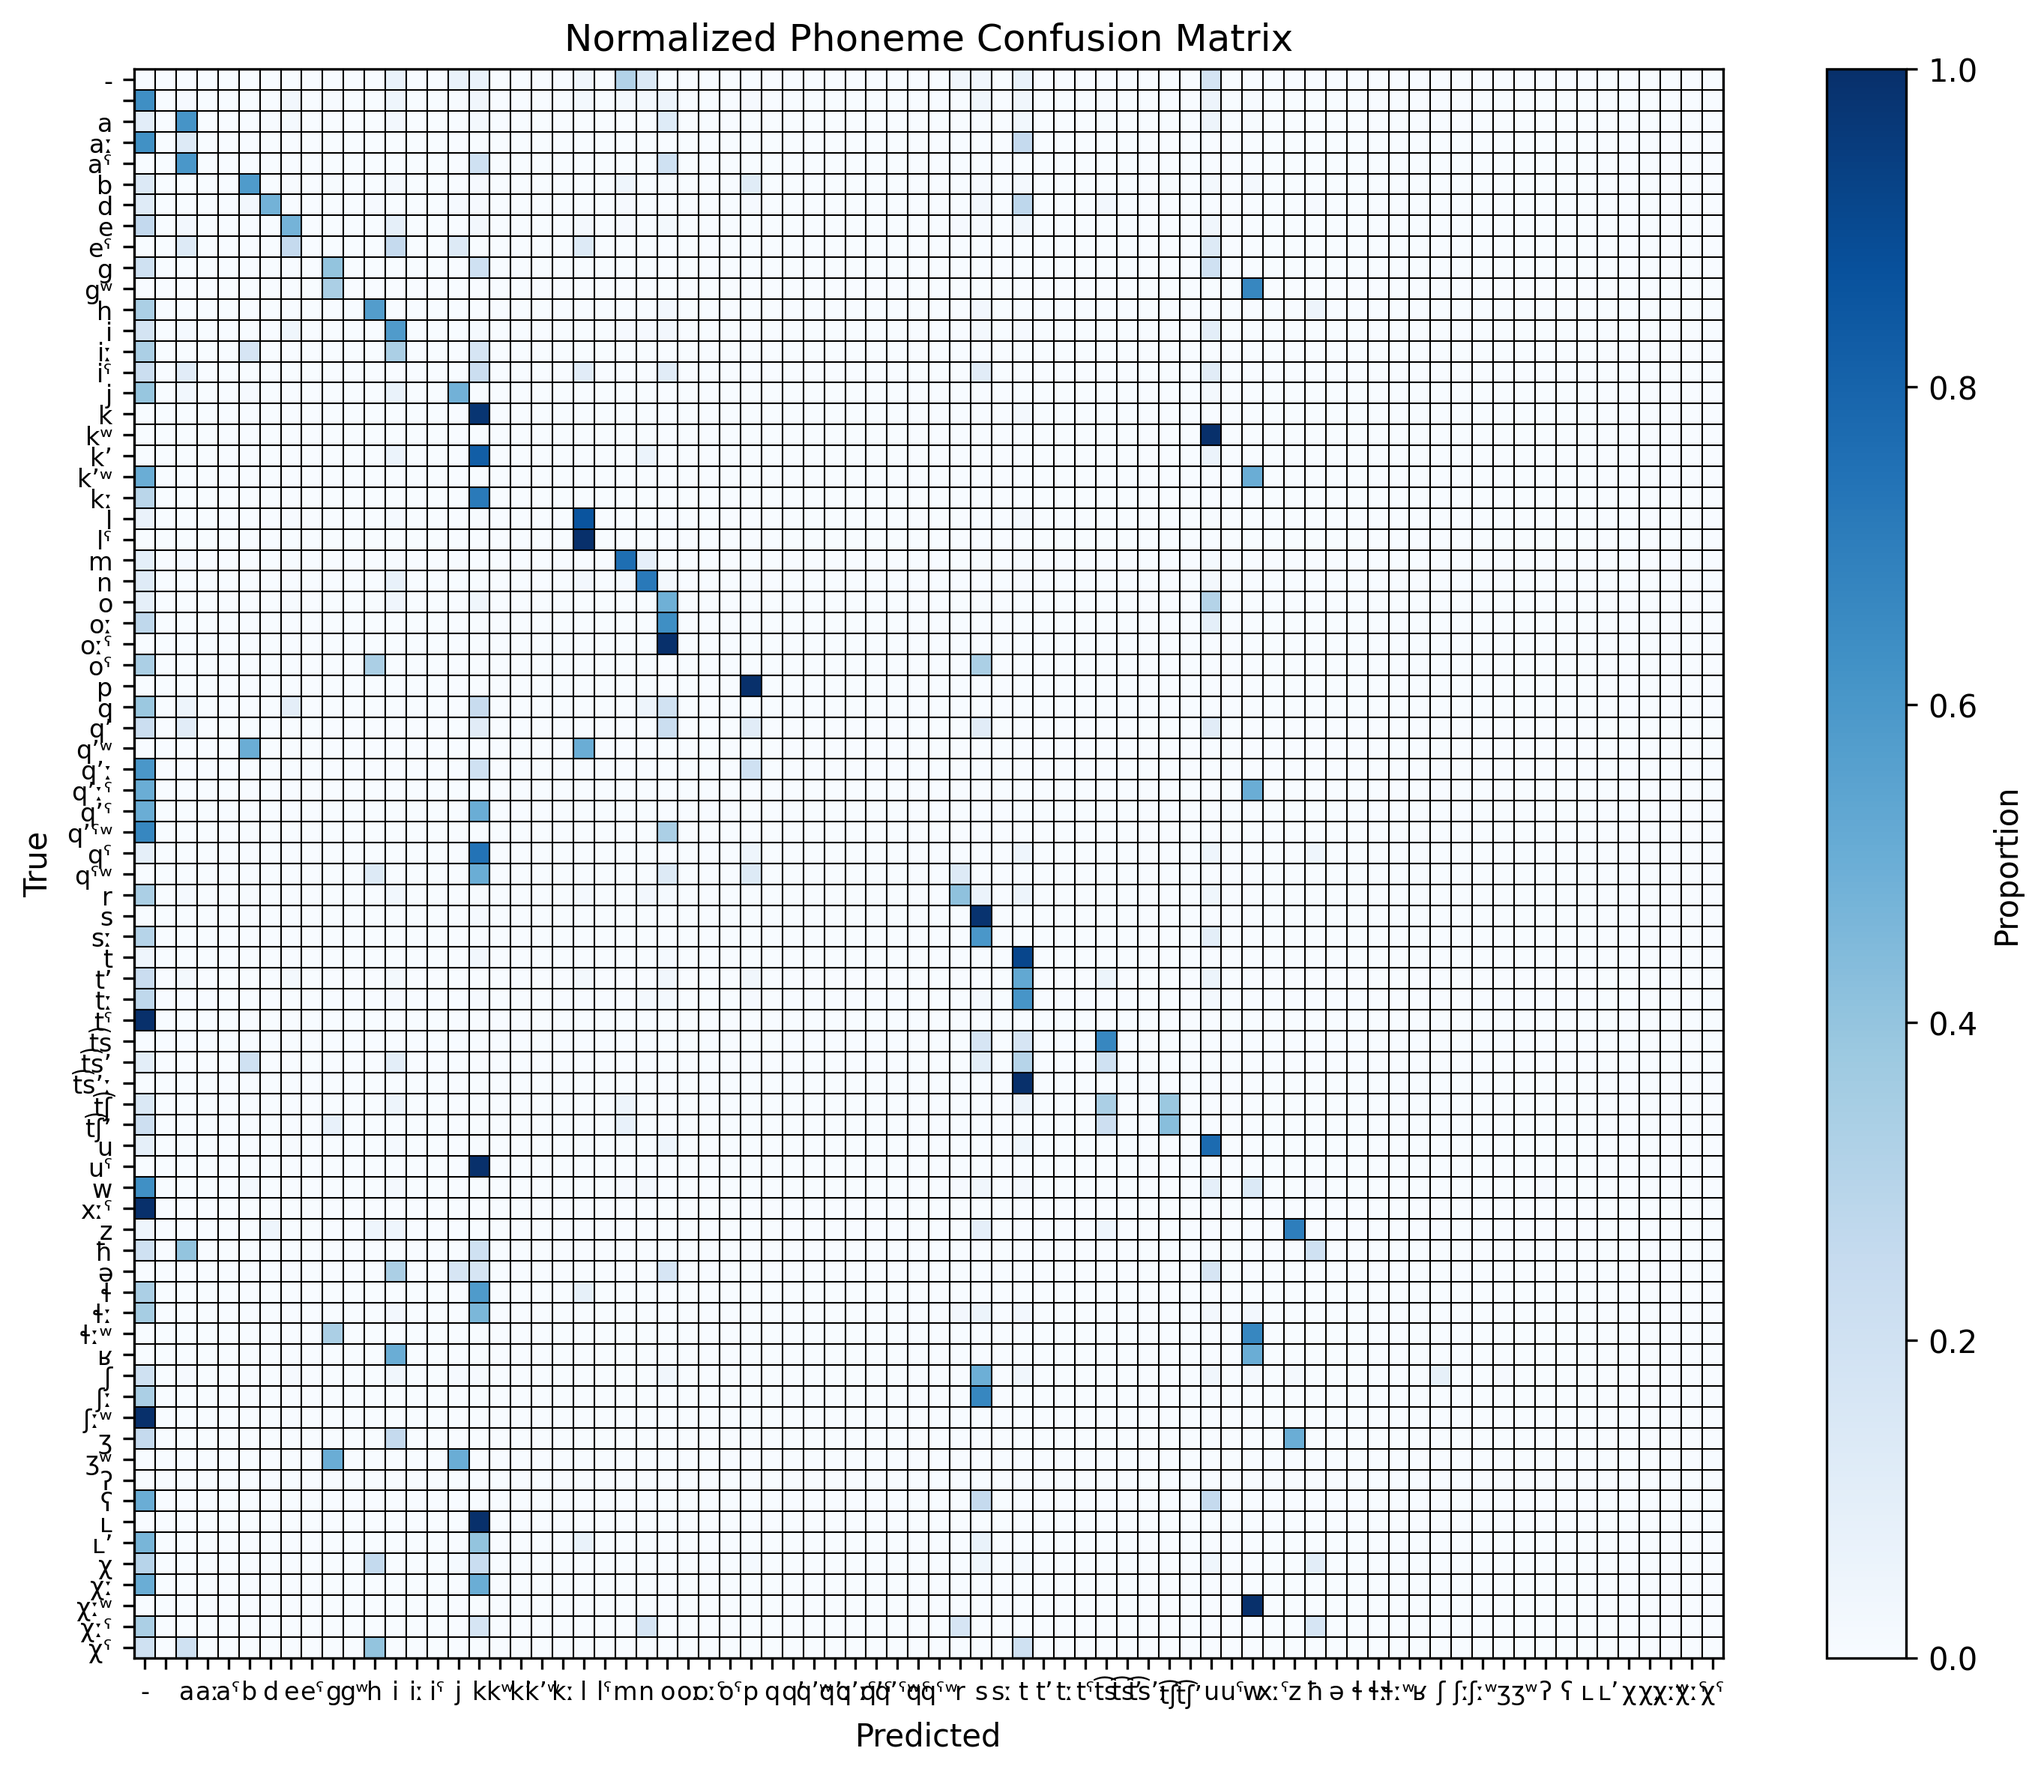
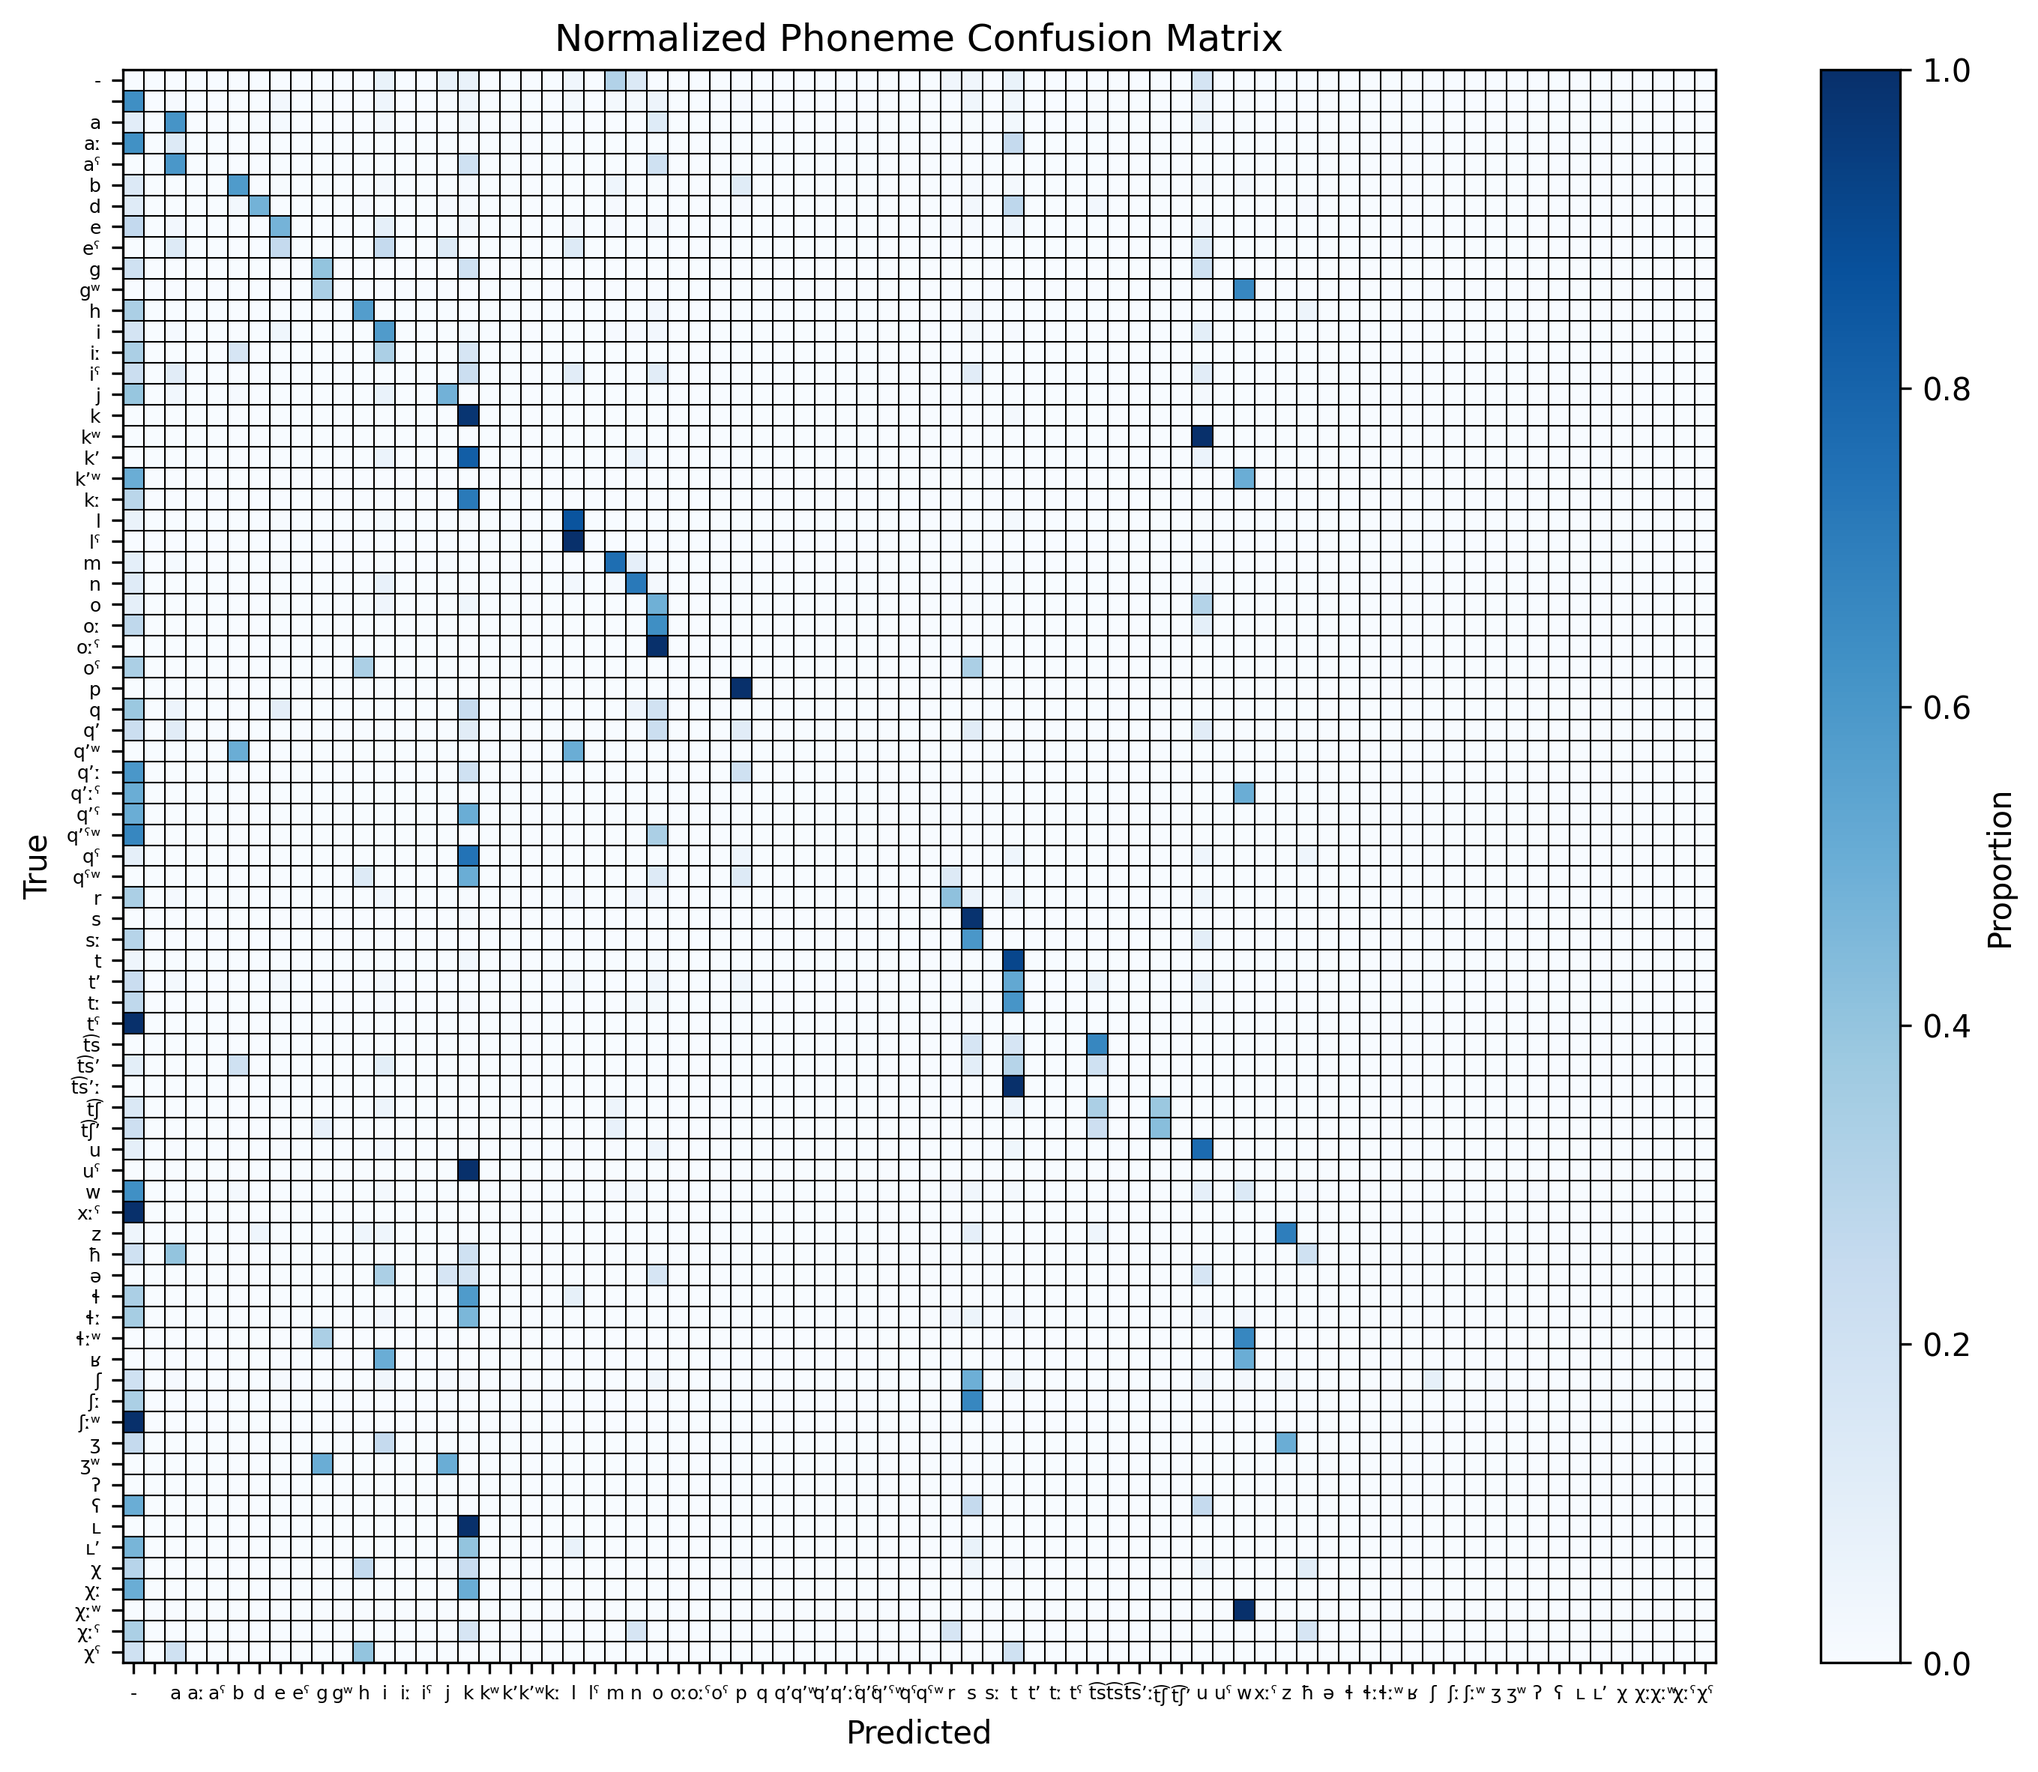
fix: adjust font size on axes in cm

diff --git a/src/tabulate_results.py b/src/tabulate_results.py
@@ -33,9 +33,9 @@ def tabulate_results(results_root="results", output_csv="results/tabulated_resul
                                         "lang": lang,
                                         "model_name": model_name,
                                         "split_name": split_name,
-                                        "wer": wer,
-                                        "cer": cer,
-                                        "per": per
+                                        "wer": round(wer, 3),
+                                        "cer": round(cer,3),
+                                        "per": round(per,3)
                                     })
                             else:
                                 print(f"Warning: {stats_file} does not exist.")

diff --git a/src/utils.py b/src/utils.py
@@ -209,14 +209,14 @@ def plot_confusion_matrix(cm, labels, title="Normalized Phoneme Confusion Matrix
 
     # reduce font size of ticks if too many labels
     if len(labels) > 120:
+        plt.xticks(fontsize=2)
+        plt.yticks(fontsize=2)
+    elif len(labels) > 80:
         plt.xticks(fontsize=4)
         plt.yticks(fontsize=4)
-    elif len(labels) > 80:
+    elif len(labels) > 40:
         plt.xticks(fontsize=6)
         plt.yticks(fontsize=6)
-    elif len(labels) > 40:
-        plt.xticks(fontsize=8)
-        plt.yticks(fontsize=8)
     
     
     plt.colorbar(im, ax=ax, label="Proportion")

diff --git a/src/train.py b/src/train.py
@@ -94,6 +94,8 @@ def main():
     # include id in model forward pass to be able to access it in compute_metrics
     orig_forward = model.forward
     model.forward = lambda *a, **kw: (out := orig_forward(*a, **{k:v for k,v in kw.items() if k in inspect.signature(orig_forward).parameters})) or {**out, "id": kw.get("id")}
+
+    #model.freeze_feature_encoder = True
     
     ## output_dir is model_name if model_name is a path, else create a directory in results_dir
     if Path(model_name).exists():
